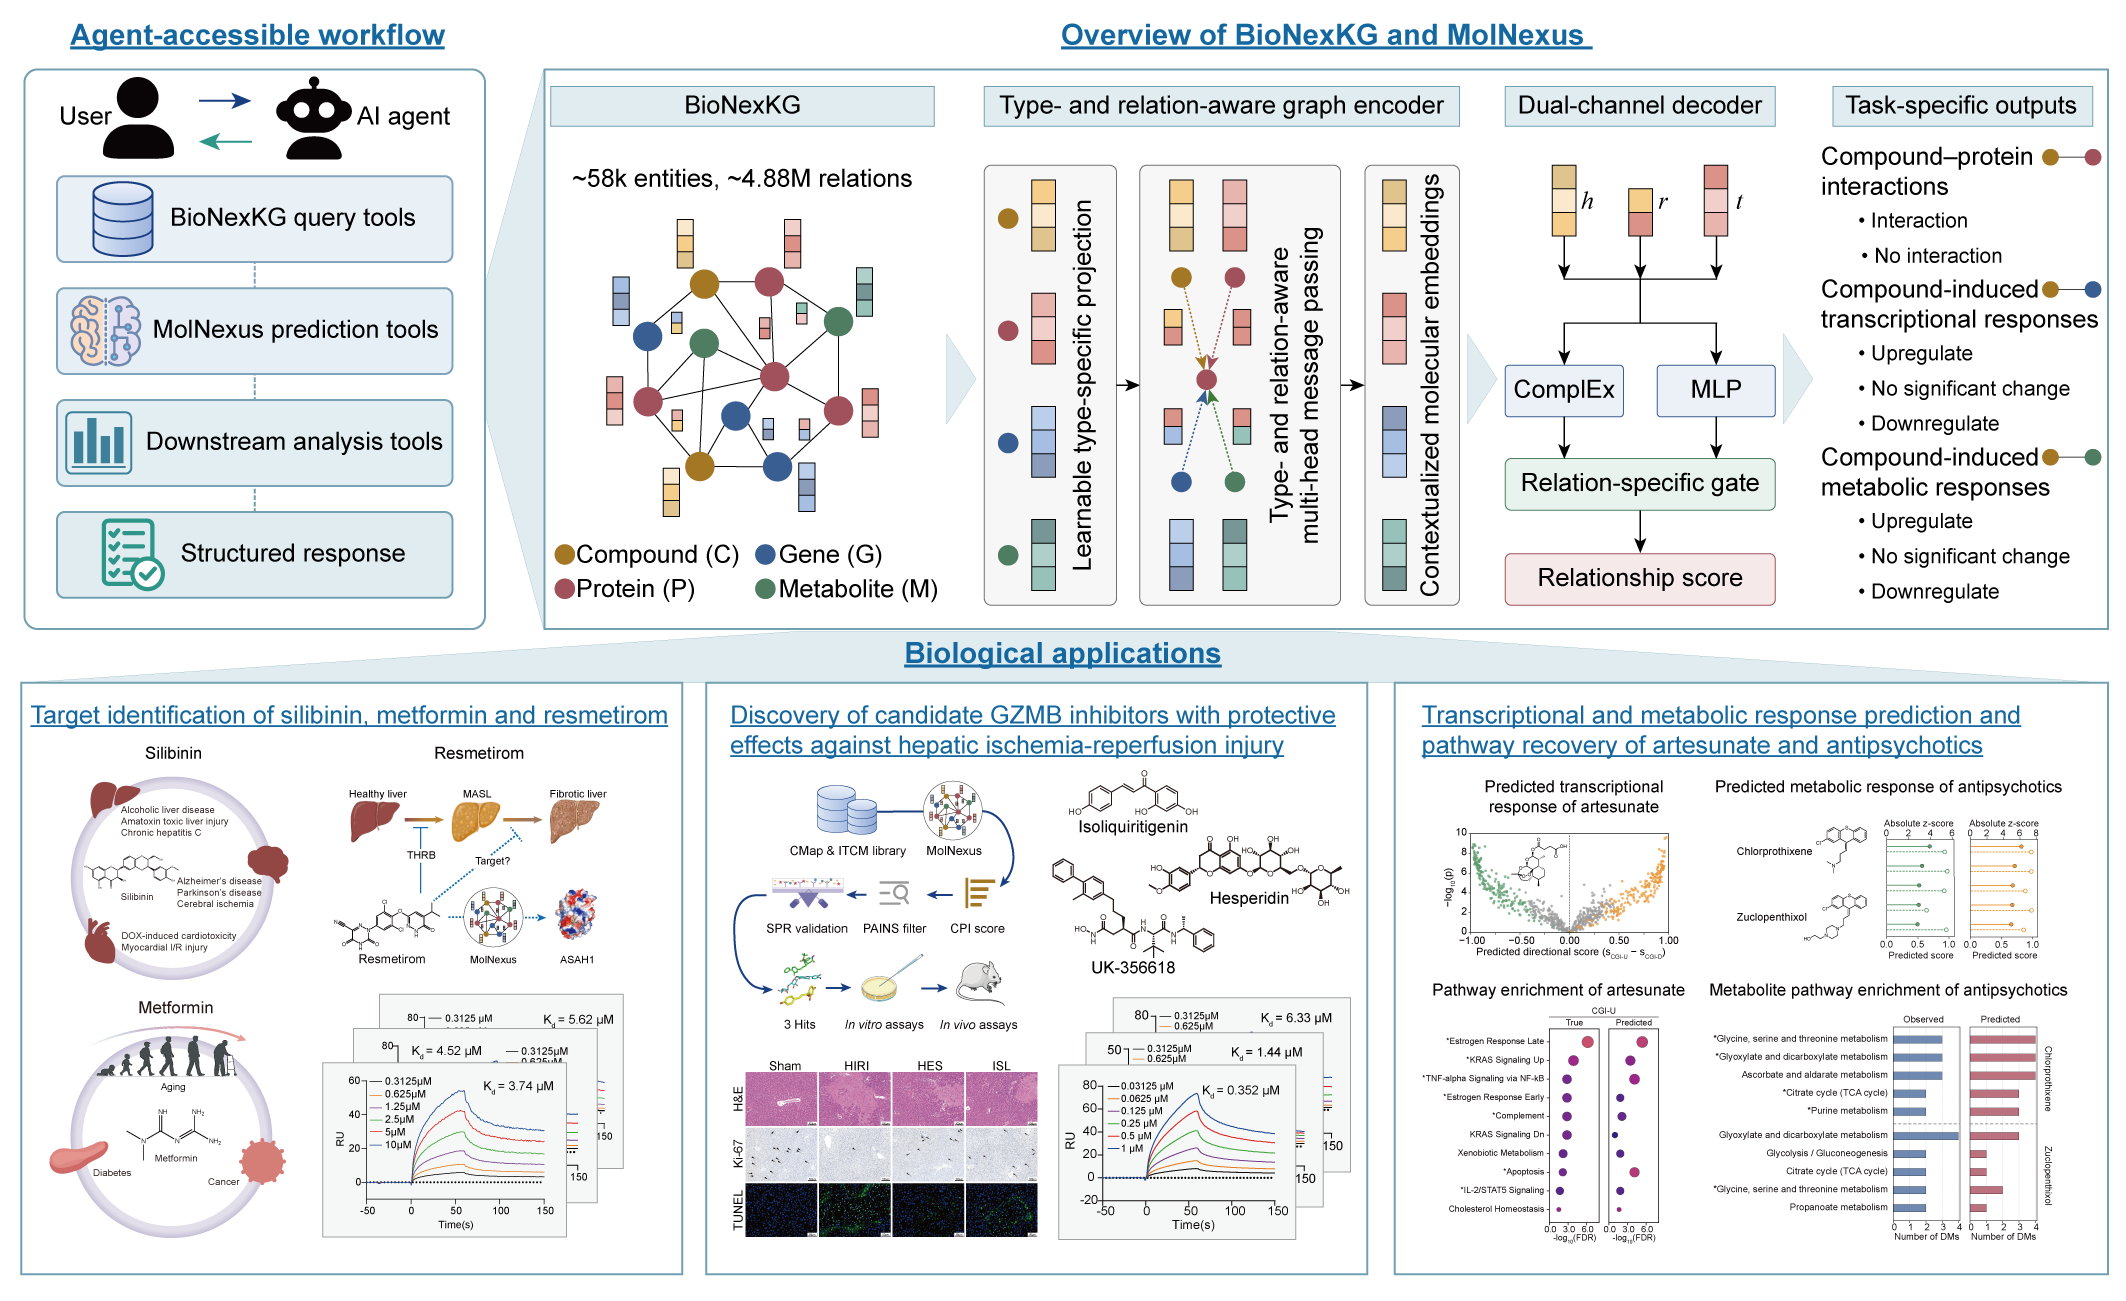
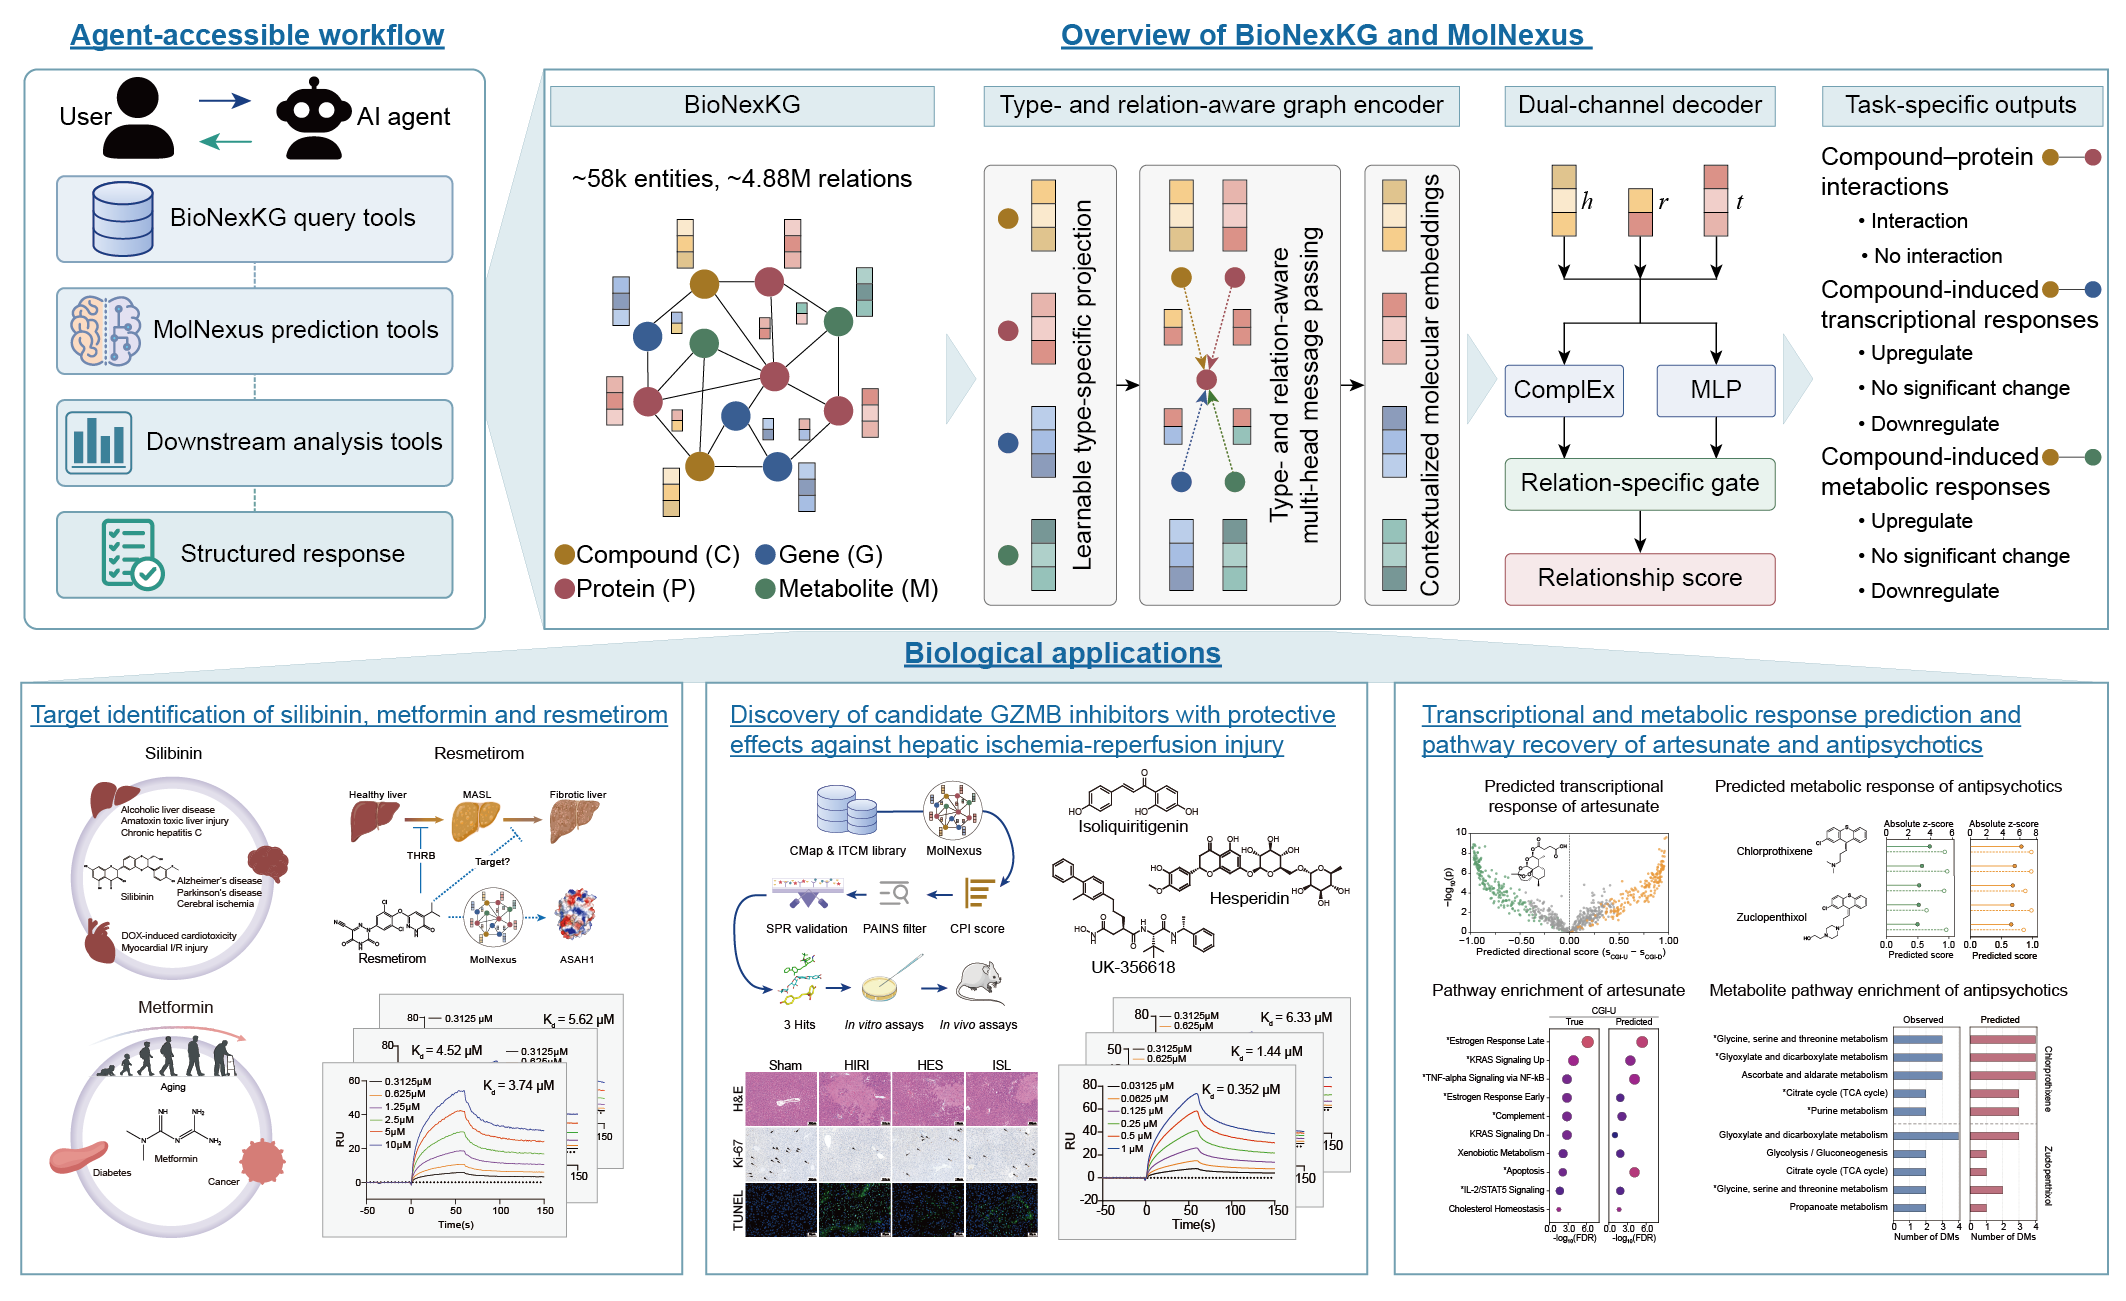
Edit README

diff --git a/README.md b/README.md
@@ -1,4 +1,4 @@
-# Knowledge graph-enhanced multimodal embedding of molecular relationships
+# Knowledge graph-enhanced prediction of biomedical molecular relationships with MolNexus
 
 ## Overview
 
@@ -19,7 +19,7 @@
 - Matplotlib
 - GSEApy
 
-## Quick installation
+## Quick Installation
 
 ```bash
 git clone https://github.com/ZJUFanLab/MolNexus.git
